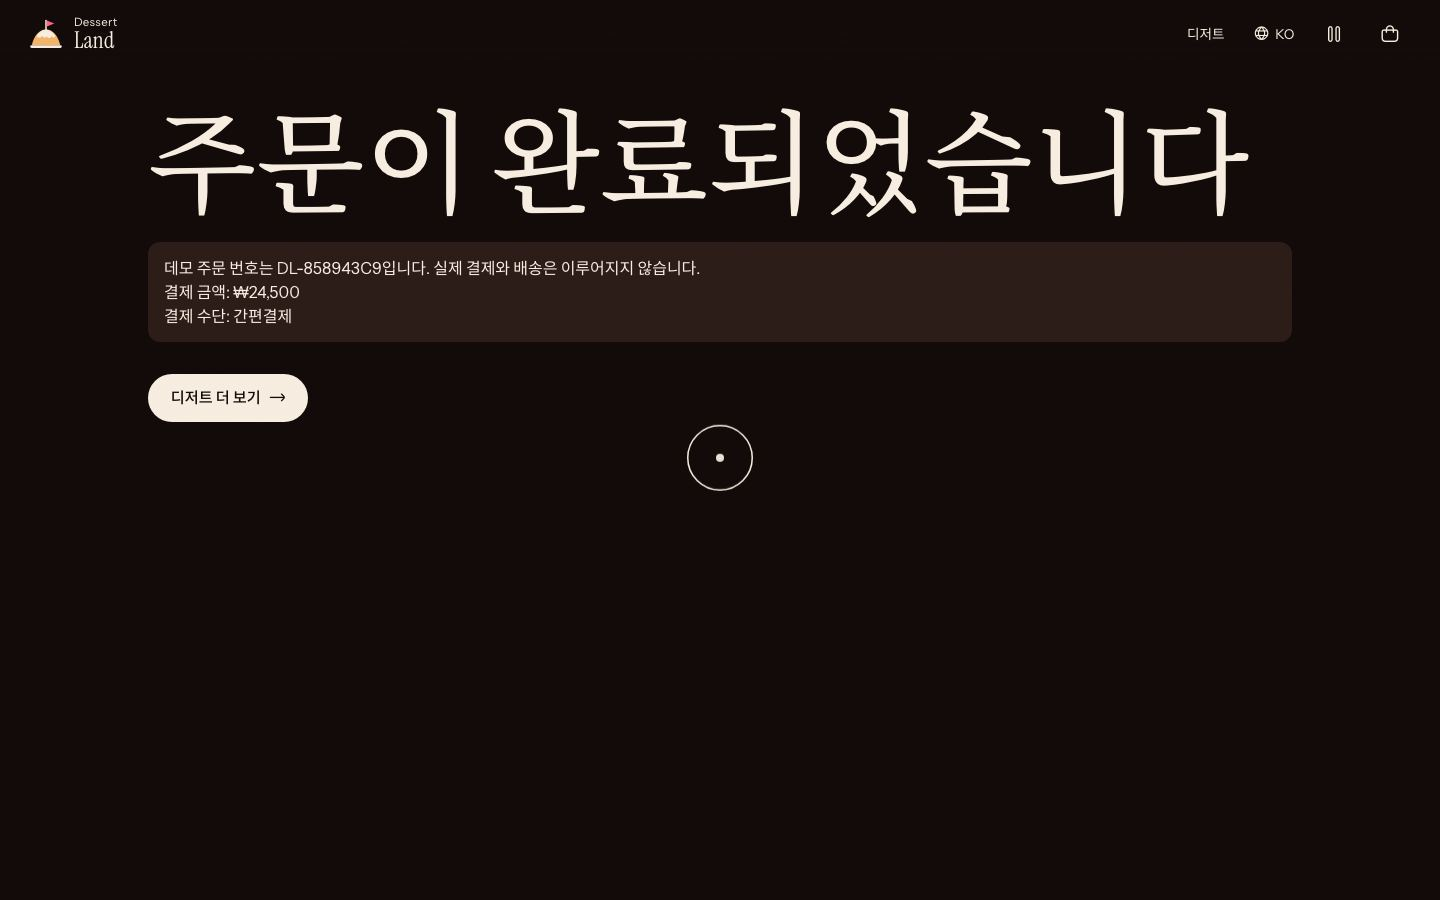
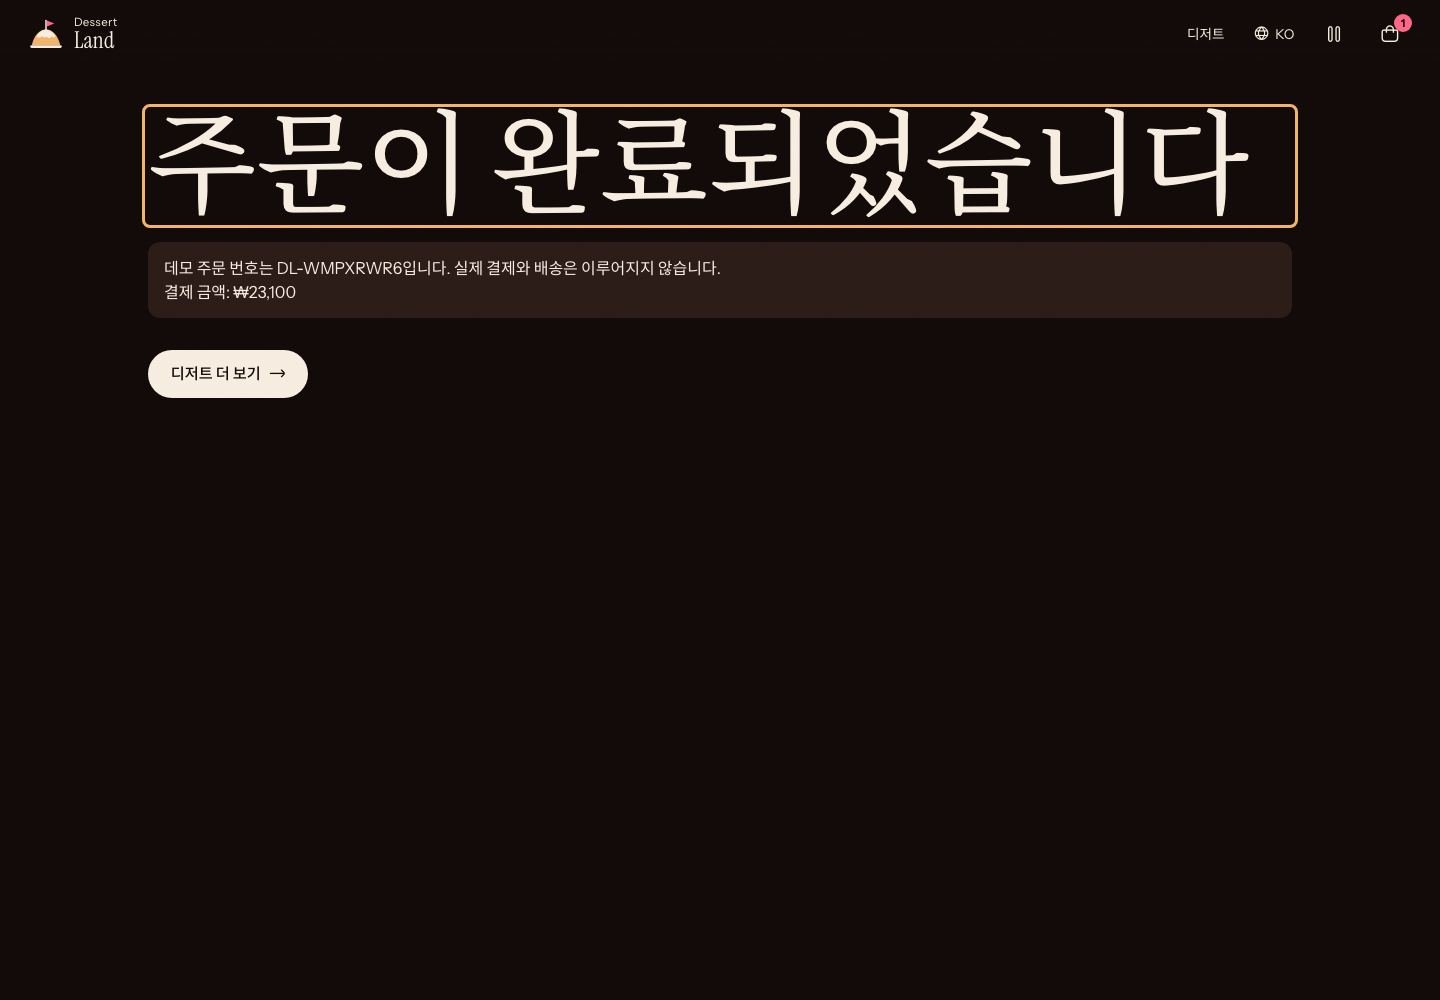
Stripe 결제를 카드로 제한하고 자동 환율 끄기
사이트에 표시한 통화와 금액을 그대로 청구합니다. README 스크린샷을 실제 Stripe 화면으로 바꾸고 테스트 카드 안내를 추가합니다.

diff --git a/src/features/stripe-checkout/api/build-session.ts b/src/features/stripe-checkout/api/build-session.ts
@@ -93,6 +93,9 @@ export function buildSessionParams({
     source === "buy" && first ? `buy=${first.slug}&qty=${first.quantity}&canceled=1` : "canceled=1";
   return {
     mode: "payment",
+    // 안내한 테스트 카드로만 결제하고, 사이트에 표시한 통화와 금액을 그대로 청구합니다.
+    allowed_payment_method_types: ["card"],
+    adaptive_pricing: { enabled: false },
     locale: STRIPE_LOCALES[locale as keyof typeof STRIPE_LOCALES],
     line_items: [...lines, lineItem(shippingName, shippingInCurrency(currency), 1)],
     shipping_address_collection: { allowed_countries: SHIPPING_COUNTRIES },

diff --git a/src/features/stripe-checkout/api/build-session.test.ts b/src/features/stripe-checkout/api/build-session.test.ts
@@ -41,6 +41,8 @@ describe("buildSessionParams", () => {
       },
     ]);
     expect(params?.metadata).toEqual({ source: "cart" });
+    expect(params?.allowed_payment_method_types).toEqual(["card"]);
+    expect(params?.adaptive_pricing).toEqual({ enabled: false });
     expect(params?.success_url).toContain("/en/checkout/complete?session_id={CHECKOUT_SESSION_ID}");
   });
 

diff --git a/README.md b/README.md
@@ -6,7 +6,7 @@
 
 디저트 랜드는 **전 세계의 디저트**가 모인 달콤한 나라를 콘셉트로, 디저트를 소개하고 판매하는 글로벌 쇼핑몰입니다. 한국어를 기본으로 **영어, 일본어, 중국어, 프랑스어, 이탈리아어, 스페인어, 독일어, 포르투갈어, 튀르키예어까지 10개 언어**를 지원합니다.
 
-**[데모 바로 보기](https://dessert-land-three.vercel.app)** · 실제 청구는 없습니다.
+**[데모 바로 보기](https://dessert-land-three.vercel.app)** · 결제는 테스트 카드 `4242 4242 4242 4242`, 미래의 만료일, 아무 CVC로 해 볼 수 있고 실제 청구는 없습니다.
 
 > **프로젝트 상태:** 별도 백엔드 없이 동작하는 **데모 프로젝트**입니다. 상품 정보와 가격은 예시 값이고, 환율은 고정값이며, 결제는 **실제 청구가 없는 테스트 결제**이며 배송도 이루어지지 않습니다. Stripe 테스트 키가 있으면 Stripe 화면에서 카드 정보를 입력하고, 없으면 카드 정보를 받지 않는 내장 테스트 결제창을 씁니다. 운영 키는 코드에서 거부합니다.
 
@@ -26,13 +26,13 @@
 |---|---|
 | ![가운데 상품을 강조하고 왼쪽에 그 상품 사진을 보여 주는 목록](docs/images/shop.jpg) | ![일본어로 표시된 쇼트케이크 상세 정보와 엔화 가격](docs/images/product-ja.jpg) |
 
-| 장바구니(일본어) | 테스트 결제 |
+| 장바구니(일본어) | Stripe 테스트 결제 |
 |---|---|
-| ![오른쪽에서 열린 장바구니와 수량, 합계, 주문 버튼](docs/images/cart-ja.jpg) | ![결제 수단 선택 뒤 승인, 실패, 취소 버튼이 있는 테스트 결제창이 열린 화면](docs/images/payment.jpg) |
+| ![오른쪽에서 열린 장바구니와 수량, 합계, 주문 버튼](docs/images/cart-ja.jpg) | ![원화 주문 금액과 배송 정보, 카드 입력칸이 있는 Stripe 샌드박스 결제 화면](docs/images/payment.jpg) |
 
 | 주문 완료 | 모바일 |
 |---|---|
-| ![주문 번호와 결제 금액, 결제 수단을 보여 주는 주문 완료 화면](docs/images/order-complete.jpg) | <img src="docs/images/mobile-hero.jpg" alt="모바일 첫 화면의 손과 밀가루, 제목, 소개 문구" width="240"> |
+| ![주문 번호와 결제 금액을 보여 주는 주문 완료 화면](docs/images/order-complete.jpg) | <img src="docs/images/mobile-hero.jpg" alt="모바일 첫 화면의 손과 밀가루, 제목, 소개 문구" width="240"> |
 
 ## 주요 기능
 

diff --git a/docs/development.md b/docs/development.md
@@ -46,7 +46,7 @@ cp .env.example .env.local                                 # 로컬
 pnpm dlx vercel env add STRIPE_SECRET_KEY production       # Vercel
 ```
 
-테스트 카드는 `4242 4242 4242 4242`, 미래의 만료일, 아무 CVC입니다. 흐름은 다음과 같습니다.
+테스트 카드는 `4242 4242 4242 4242`, 미래의 만료일, 아무 CVC입니다. 결제 수단은 카드로 제한하고 자동 환율(Adaptive Pricing)은 꺼서, 사이트에 표시한 통화와 금액을 그대로 청구합니다. 흐름은 다음과 같습니다.
 
 1. `POST /api/checkout-session`이 서버 가격으로 Stripe 세션을 만듭니다.
 2. 사용자는 Stripe 화면에서 카드와 배송 정보를 입력합니다.

diff --git a/CHANGELOG.md b/CHANGELOG.md
@@ -5,6 +5,7 @@
 - 첫 화면 사진을 얼굴이 나오지 않는 손과 밀가루 사진으로 교체
 - Stripe Checkout 테스트 모드 추가: 운영 키 거부, 서버 금액 계산, 완료 페이지에서 결제 확인
 - Vercel 배포
+- Stripe 결제를 카드로 제한하고 자동 환율을 꺼서 사이트에 표시한 금액 그대로 청구
 
 ## 0.2.0 - 2026-11-07
 
